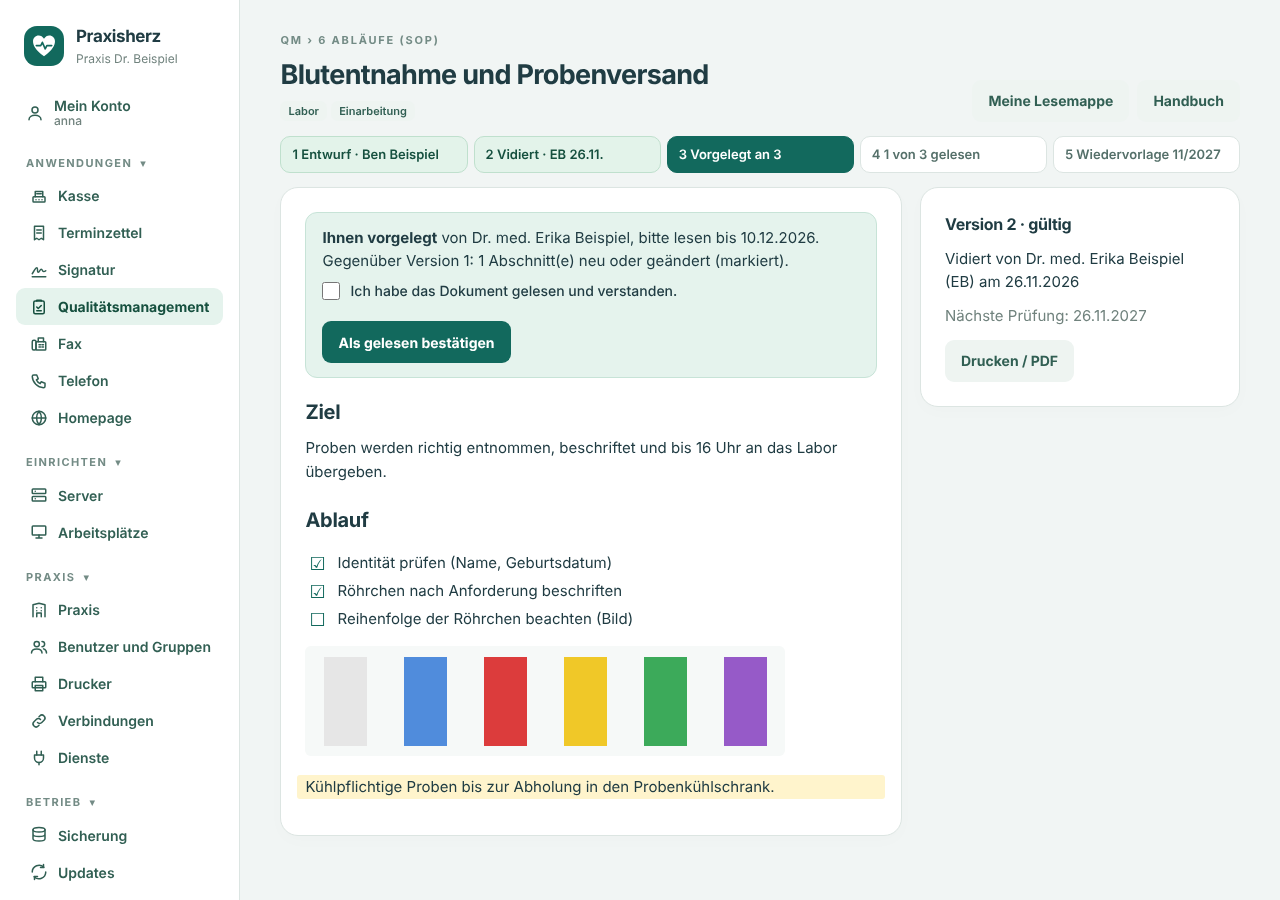
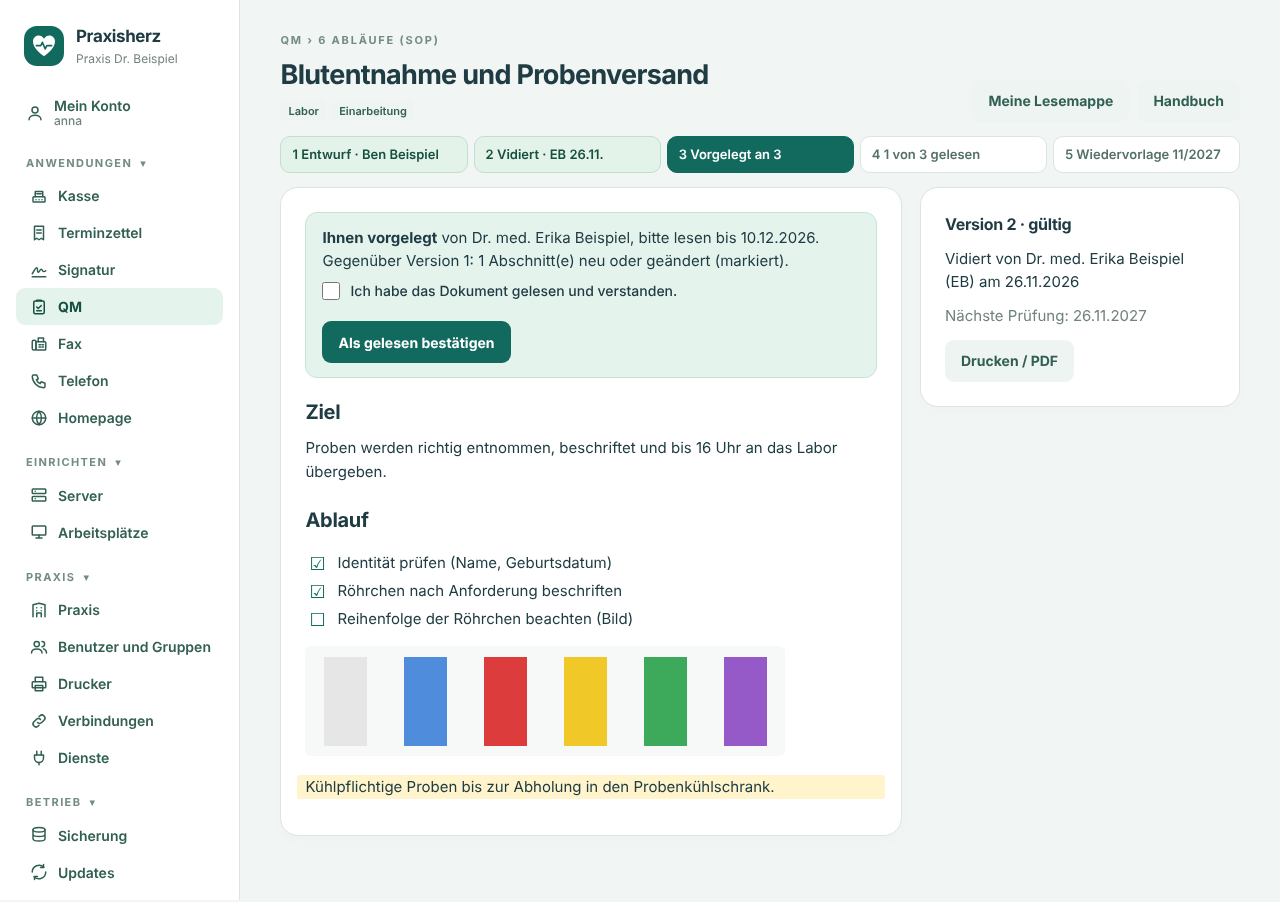
QM 0.1.0-beta.2: sichtbarer Name „QM“ statt „Qualitätsmanagement“
Seitenleiste, Modulverwaltung, Seitentitel und Kopfzeile; Webpfad und Rechte unverändert.
Bildschirmfotos neu. Mit Tests geprüft, nicht auf der VM.

diff --git a/modules/qm/src/Ansicht.php b/modules/qm/src/Ansicht.php
@@ -88,7 +88,7 @@ final class Ansicht {
         $faellig = (self::$r['vidieren'] || self::$r['schreiben']) ? Dokumente::faellig() : [];
         $entw = self::$r['schreiben'] ? Dokumente::entwuerfe() : [];
         $heute = date('Y-m-d');
-        $o = '<div class="qm">' . self::seitenkopf('start', 'Qualitätsmanagement', 'Guten Tag' . ($vorname !== '' ? ', ' . $vorname : '')) . $meldung;
+        $o = '<div class="qm">' . self::seitenkopf('start', 'QM', 'Guten Tag' . ($vorname !== '' ? ', ' . $vorname : '')) . $meldung;
         $o .= '<div class="qm-zahlen"><a class="card qm-zahl" href="#mappe"><span class="muted">Für mich zu lesen</span><strong>' . count($mappe) . '</strong></a>';
         if (self::$r['vidieren']) $o .= '<a class="card qm-zahl" href="#vidieren"><span class="muted">Von mir zu vidieren</span><strong>' . count($vid) . '</strong></a>';
         if ($faellig || self::$r['vidieren']) $o .= '<a class="card qm-zahl" href="' . qm_h(self::u('/handbuch', ['zustand' => 'faellig'])) . '"><span class="muted">Prüfung fällig</span><strong' . ($faellig ? ' class="qm-rot"' : '') . '>' . count($faellig) . '</strong></a>';
@@ -141,7 +141,7 @@ final class Ansicht {
         $filter = ['ordner' => $ordnerId ?: '', 'tag' => (string)($f['tag'] ?? ''), 'zustand' => (string)($f['zustand'] ?? ''), 'q' => (string)($f['q'] ?? ''), 'text' => !empty($f['text']) ? '1' : ''];
         $titel = 'Handbuch';
         foreach ($baum as $b) if ($b['id'] === $ordnerId) $titel = $b['name'];
-        $o = '<div class="qm">' . self::seitenkopf('handbuch', 'Qualitätsmanagement', $titel) . $meldung . '<div class="qm-drei">';
+        $o = '<div class="qm">' . self::seitenkopf('handbuch', 'QM', $titel) . $meldung . '<div class="qm-drei">';
 
         // Ordner und Tags
         $o .= '<aside class="card qm-baum"><h2>Ordner</h2><nav aria-label="Ordner"><a class="qm-ordner' . ($ordnerId === 0 ? ' aktiv' : '') . '" href="' . qm_h(self::u('/handbuch', array_merge($filter, ['ordner' => '']))) . '">Alle Dokumente</a>';
@@ -467,7 +467,7 @@ final class Ansicht {
 
     public static function neu(int $ordner, string $meldung): string {
         $baum = Dokumente::ordnerBaum();
-        $o = '<div class="qm">' . self::seitenkopf('neu', 'Qualitätsmanagement', 'Neues Dokument') . $meldung . '<form method="post" class="card qm-neu">' . self::csrfFeld() . '<input type="hidden" name="aktion" value="anlegen">'
+        $o = '<div class="qm">' . self::seitenkopf('neu', 'QM', 'Neues Dokument') . $meldung . '<form method="post" class="card qm-neu">' . self::csrfFeld() . '<input type="hidden" name="aktion" value="anlegen">'
             . '<div class="qm-felder"><label>Titel<input name="titel" maxlength="150" placeholder="z. B. Blutentnahme und Probenversand" data-geruest-titel></label><label>Ordner' . self::ordnerWahl($baum, 'ordner', $ordner ?: null, 'ohne Ordner') . '</label>'
             . '<label>Tags <small>mit Komma getrennt</small><input name="tags" maxlength="400" placeholder="z. B. Labor, Einarbeitung"></label><label>Prüfen alle<select name="pruef_monate"><option value="12">12 Monate</option><option value="24">24 Monate</option><option value="36">36 Monate</option><option value="6">6 Monate</option><option value="0">keine Wiedervorlage</option></select></label></div>'
             . '<fieldset><legend>Beginnen mit</legend><label class="check"><input type="radio" name="geruest" value="" checked> Leeres Dokument</label>';
@@ -478,7 +478,7 @@ final class Ansicht {
 
     public static function import(string $meldung): string {
         $baum = Dokumente::ordnerBaum();
-        $o = '<div class="qm">' . self::seitenkopf('import', 'Qualitätsmanagement', 'Musterdokumente übernehmen') . $meldung
+        $o = '<div class="qm">' . self::seitenkopf('import', 'QM', 'Musterdokumente übernehmen') . $meldung
             . '<div class="qm-zwei"><section class="card"><h2>Word-Dateien übernehmen (z. B. QEP)</h2>'
             . '<p>Die Musterdokumente aus QEP („Qualität und Entwicklung in Praxen“ der KBV) und andere Word-Dateien (.docx) werden als <strong>Entwürfe</strong> angelegt: anpassen, dann vidieren. '
             . 'Überschriften, Listen, Tabellen, Fettdruck, Links und Bilder werden übernommen; Kopf- und Fußzeilen nicht.</p>'

diff --git a/scripts/modul-vorschau/router.php b/scripts/modul-vorschau/router.php
@@ -10,7 +10,7 @@ if (str_starts_with($path, '/assets/')) {
 }
 if (!preg_match('#^/(terminzettel|signatur|qm|fax|telefon|homepage)(/|$)#', $path, $m)) { http_response_code(404); echo 'nur /terminzettel, /signatur, /qm, /fax, /telefon und /homepage'; return true; }
 $modul = $m[1];
-$menu = rawurlencode(json_encode(['apps' => ['/kasse/' => 'Kasse', '/terminzettel/' => 'Terminzettel', '/signatur/' => 'Signatur', '/qm/' => 'Qualitätsmanagement', '/fax/' => 'Fax', '/telefon/' => 'Telefon', '/homepage/' => 'Homepage'],
+$menu = rawurlencode(json_encode(['apps' => ['/kasse/' => 'Kasse', '/terminzettel/' => 'Terminzettel', '/signatur/' => 'Signatur', '/qm/' => 'QM', '/fax/' => 'Fax', '/telefon/' => 'Telefon', '/homepage/' => 'Homepage'],
     'ids' => ['/kasse/' => 'kasse', '/terminzettel/' => 'terminzettel', '/signatur/' => 'signatur', '/qm/' => 'qm', '/fax/' => 'fax', '/telefon/' => 'telefon', '/homepage/' => 'homepage'], 'admin' => true, 'login' => 'anna']));
 // Erfundene Personen für „Vorlegen“ (QM); Anmeldung als „anna“ bzw. mit ?als=carla als MFA ohne Schreibrechte.
 $_SERVER['KIENZLE_PERSONEN'] = rawurlencode(json_encode([['l' => 'anna', 'n' => 'Dr. med. Erika Beispiel', 'g' => ['Arzt'], 'a' => true, 'r' => []],

diff --git a/modules/qm/tests/seiten.php b/modules/qm/tests/seiten.php
@@ -36,6 +36,7 @@ $alle = 'lesen,schreiben,vidieren,vorlegen';
 $o = aufruf($dir, '/qm/', 'anna', 'lesen');
 check(str_contains($o, '#CODE=200') && str_contains($o, 'Guten Tag, Anna') && str_contains($o, 'Nichts zu lesen') && !str_contains($o, 'Neues Dokument') && str_contains($o, '<aside class="side">'), 'Startseite MFA im Rahmen');
 check(str_contains(aufruf($dir, '/qm/', 'erika', '', 'admin'), 'Guten Tag, Erika'), 'Anrede ohne Titel');
+check(str_contains($o, '<p class="eyebrow">QM</p>') && !str_contains($o, '>Qualitätsmanagement<'), 'sichtbarer Name „QM“');
 check(str_contains(aufruf($dir, '/qm/', 'anna', ''), '#CODE=403'), 'ohne Recht kein Zugang');
 check(str_contains(aufruf($dir, '/qm/neu', 'anna', 'lesen'), '#CODE=403') && str_contains(aufruf($dir, '/qm/import', 'anna', 'lesen'), '#CODE=403'), 'Neu und Import nur mit „schreiben“');
 $o = aufruf($dir, '/qm/neu', 'ben', 'lesen,schreiben');

diff --git a/modules/qm/public/index.php b/modules/qm/public/index.php
@@ -211,7 +211,7 @@ try {
         '/import' => Ansicht::import($meldung),
         'dokument' => Ansicht::dokument($dok, $_GET, $meldung, $r['vorlegen'] ? $k->personen() : []),
     };
-    echo $k->rahmen('Qualitätsmanagement', $inhalt, ['roh' => true, 'kopf' => Ansicht::kopf($base, $k->csrf())]);
+    echo $k->rahmen('QM', $inhalt, ['roh' => true, 'kopf' => Ansicht::kopf($base, $k->csrf())]);
 } catch (Throwable $e) {
     error_log('qm: ' . get_class($e) . ': ' . $e->getMessage());
     http_response_code(500);

diff --git a/AGENTS.md b/AGENTS.md
@@ -38,7 +38,7 @@ Oberfläche, Hilfetexte, Dokumentation und Commit-Nachrichten auf Deutsch.
 
 ## Hinweise für neue Sitzungen (Stand 28.11.2026)
 
-**Stand:** Basis 0.22.0-beta.53, Kasse (`kasse`) 2.3.4-beta.67, Terminzettel 1.3.0-beta.25, Signatur 0.1.0-beta.51, Telefon 0.1.0-beta.31, Fax 0.1.0-beta.16, QM (`qm`) 0.1.0-beta.1, Homepage (`homepage`) 0.1.0-beta.1, Beispiel 0.2.1-beta.1; Zweig `beta` ist aktuell, `main` steht auf einem älteren Endstand
+**Stand:** Basis 0.22.0-beta.53, Kasse (`kasse`) 2.3.4-beta.67, Terminzettel 1.3.0-beta.25, Signatur 0.1.0-beta.51, Telefon 0.1.0-beta.31, Fax 0.1.0-beta.16, QM (`qm`) 0.1.0-beta.2, Homepage (`homepage`) 0.1.0-beta.1, Beispiel 0.2.1-beta.1; Zweig `beta` ist aktuell, `main` steht auf einem älteren Endstand
 (Basis 0.19.1). Der Nutzer testet auf einer echten Ubuntu-26.04-VM (Aktualisierung dort: `cd ~/praxisherz && git pull && sudo bash installer/install.sh`,
 oder in der Weboberfläche unter „Updates“). Die Adresse der VM gehört nicht ins Repository.
 
@@ -92,7 +92,7 @@ oder in der Weboberfläche unter „Updates“). Die Adresse der VM gehört nich
   - **Fax:** `src/Fax.php` (aus `kienzlefax.php`), Drucker vFax1–vFax5, holt Berichte und empfangene Faxe sofort in den eigenen Datenordner. Rechte `senden`, `eingang`, `telefonbuch`. „Fax senden“ (beta.7, Entwurf A): eine Liste aller Quellen (`Fax::dokumente`, Schlüssel `quelle/datei`), Reihenfolge des Anhakens im Feld `reihenfolge`, mehrere Dokumente per Ghostscript zu einem Fax (`sendenAuswahl`, `einzeln` = je Dokument ein Fax), Vorschau `/fax/vorschau` (`Fax::vorschau`, Cache `<daten>/vorschau`, 1 Tag; auch beim Überfahren im Eingang), Favoriten (Spalte `favorit`), `zuletzt.json`. Texterkennung (beta.10): Dienst `kienzle-fax-ocr` (`haken.php ocr` → `Fax::ocrLauf`, gs 300 dpi + `tesseract … deu`), Text `eingang/<name>.txt`, Suche `?suche=` (`Fax::eingangSuchen`), Einstellung `ocr`.
   - **Offen (Stufen 2–5):** Kienzlefon (Sprachmenü, Zeiten, Ansagen/TTS, Whisper, Vorgänge, Rufgruppen-API 8767, AMI für Middleware, KI-Übergabe), Nachrichten-Ausgang der Basis für Module (SMS/Mail ohne Zugangsdaten im Modul) und SMS an Anrufer, Mail bei Faxeingang, OCR, Umzug alter Installationen.
   - Test `modules/telefon/tests/test_fax_schleife.py` startet echtes Asterisk (CI installiert es) und schickt ein Fax über `Local/s@fax-in` an sich selbst; Leitungen in Tests nur `*.example.invalid` (keine echten Anbieter anfragen).
-- **Qualitätsmanagement (`modules/qm`, seit 28.11.2026, Entscheidung des Nutzers: Vorschläge B + A + C kombiniert, Import für QEP der KBV):** `/qm/` = „Meine Lesemappe“ (vorgelegt, zu vidieren, fällig, Entwürfe), `/qm/handbuch` (Ordnerbaum, Tags, Sofortsuche nach Schnipseln per `data-live`, Volltext mit `text=1`, Vorschau `?d=`, Sammel-Vorlage der gefilterten Dokumente), `/qm/dokument/<id>` (Schritte, gültig/Entwurf-Reiter, `?bearbeiten=1` Editor mit `contenteditable` + `execCommand`, Tabellen per DOM eingefügt – Chrome zerlegt sie bei `insertHTML`), `/qm/druck/<id>`, `/qm/neu` (Gerüste aus `src/Gerueste.php`, eigene Texte), `/qm/import` (roh per `fetch` an `POST /qm/import`, Kopfzeilen `X-Qm-Pfad|Ordner|Tags|Struktur`; .docx/.zip bis 7,5 MB, Ordnerwahl per `webkitdirectory`). Logik `src/Dokumente.php` (ein gültige + höchstens ein Entwurf je Dokument; Vidieren ersetzt, offene Lesepflichten gehen über, „erneut vorlegen“), `src/Html.php` (Reiniger mit fester Liste, Änderungsmarkierung je Abschnitt), `src/Docx.php` (Word → HTML, Listen auch über Formatvorlagen, Titel aus QEP-Kopf „PRAXISINTERNES QM-Dokument: …“), `src/Import.php`. Rechte `lesen`, `schreiben`, `vidieren`, `vorlegen`. **Basis beta.46:** `[web] personen = true` (core_api 2) → Kopf `X-Kienzle-Personen` (aktive Konten mit Zugang, Gruppen, Rechte; 30 s Cache in `settings`), `$k->personen()`; nginx `/_auth/` mit `fastcgi_buffer_size 32k` **und** `fastcgi_buffers 8 32k` (beta.47; nur `buffer_size` allein ließ `nginx -t` scheitern, Test `EchtesNginx` in `tests/core/test_nginx.py`). QEP-Muster liegen nicht im Repo (Rechte der KBV), echte QEP-Dateien ungetestet. Vorschau: `scripts/modul-vorschau` (`/qm/?als=carla` = MFA). Tests `modules/qm/tests/qm.php`, `seiten.php` (rohe Körper in der CLI über `php://stdin`, `qm_eingabe`).
+- **QM – Qualitätsmanagement (`modules/qm`, sichtbarer Name „QM“ seit beta.2, seit 28.11.2026, Entscheidung des Nutzers: Vorschläge B + A + C kombiniert, Import für QEP der KBV):** `/qm/` = „Meine Lesemappe“ (vorgelegt, zu vidieren, fällig, Entwürfe), `/qm/handbuch` (Ordnerbaum, Tags, Sofortsuche nach Schnipseln per `data-live`, Volltext mit `text=1`, Vorschau `?d=`, Sammel-Vorlage der gefilterten Dokumente), `/qm/dokument/<id>` (Schritte, gültig/Entwurf-Reiter, `?bearbeiten=1` Editor mit `contenteditable` + `execCommand`, Tabellen per DOM eingefügt – Chrome zerlegt sie bei `insertHTML`), `/qm/druck/<id>`, `/qm/neu` (Gerüste aus `src/Gerueste.php`, eigene Texte), `/qm/import` (roh per `fetch` an `POST /qm/import`, Kopfzeilen `X-Qm-Pfad|Ordner|Tags|Struktur`; .docx/.zip bis 7,5 MB, Ordnerwahl per `webkitdirectory`). Logik `src/Dokumente.php` (ein gültige + höchstens ein Entwurf je Dokument; Vidieren ersetzt, offene Lesepflichten gehen über, „erneut vorlegen“), `src/Html.php` (Reiniger mit fester Liste, Änderungsmarkierung je Abschnitt), `src/Docx.php` (Word → HTML, Listen auch über Formatvorlagen, Titel aus QEP-Kopf „PRAXISINTERNES QM-Dokument: …“), `src/Import.php`. Rechte `lesen`, `schreiben`, `vidieren`, `vorlegen`. **Basis beta.46:** `[web] personen = true` (core_api 2) → Kopf `X-Kienzle-Personen` (aktive Konten mit Zugang, Gruppen, Rechte; 30 s Cache in `settings`), `$k->personen()`; nginx `/_auth/` mit `fastcgi_buffer_size 32k` **und** `fastcgi_buffers 8 32k` (beta.47; nur `buffer_size` allein ließ `nginx -t` scheitern, Test `EchtesNginx` in `tests/core/test_nginx.py`). QEP-Muster liegen nicht im Repo (Rechte der KBV), echte QEP-Dateien ungetestet. Vorschau: `scripts/modul-vorschau` (`/qm/?als=carla` = MFA). Tests `modules/qm/tests/qm.php`, `seiten.php` (rohe Körper in der CLI über `php://stdin`, `qm_eingabe`).
 - **Homepage (`modules/homepage`, seit 28.11.2026, Entscheidung des Nutzers: Konzept B = Plugin in WordPress, Praxisserver schickt; Oberfläche Entwurf B2 mit Vorschau aus C; Vertretungspraxen als eigene Liste mit Knopf oben wie die IGeL-Leistungen; Ort je Mitteilung wählbar, mehrere Praxen je Vertretung):** `/homepage/` Mitteilungen (Ausklappzeilen mit Schalter, Formular je Art per `data-art`, Vorschau rechts über `POST /homepage/vorschau` mit `X-Kienzle-Csrf`, Formular noch ungespeichert), `/homepage/praxen`, `/homepage/einrichtung` (Admin; Adresse + Schlüssel, verschlüsselt mit Zweck `wordpress`), `/homepage/plugin.zip`. Logik `src/Mitteilungen.php` (Arten vertretung/impfstoff/oeffnungszeiten/frei, Orte leiste/kasten/fenster/kurzcode, `zustand` aus/geplant/aktiv/abgelaufen, `darstellung` = fertige Texte titel/kurz/text/punkte), `src/Praxen.php`, `src/Homepage.php` (Übertragung per curl an `<url>/?rest_route=/praxisherz/v1/hinweise`, HMAC-SHA256 über „Zeit\nKörper“ mit dem 64-Hex-Schlüssel als Text, Kopfzeilen `X-Praxisherz-Zeit`/`-Signatur`, keine Weiterleitungen, nur https außer 127.0.0.1). Plugin `wordpress/praxisherz-hinweise` (eigene Version im Kopf, PHP 7.4/WP 5.3; Zeitraumprüfung auch im Browser wegen Seitencache). Farbe/Symbol je Mitteilung (beta.2, Plugin 0.2.0): `Mitteilungen::FARBEN|SYMBOLE|FARBE_ZUR_ART|SYMBOL_ZUR_ART` müssen mit den Konstanten des Plugins übereinstimmen (Test prüft das). Kasten: `the_content` nur auf statischer Startseite (`is_page`); sonst gibt `wp_footer` ihn mit `ph-nachreichen-kasten` aus und `hinweise.js` setzt ihn (Option `praxisherz_hinweise_kasten_ziel`/`_lage`, sonst `main` bzw. nach `header`) – die Test-Homepage des Nutzers baut die Startseite im Theme selbst. Rechte `mitteilungen`, `praxen`. Tests `tests/homepage.php` (inkl. nachgebautem WordPress `tests/wp-nachbau.php` und echter Übertragung an `php -S tests/wp-server.php`), `tests/seiten.php` (Weiterleitungsziel über `$GLOBALS['hp_weiter']`, Testmodul über `$GLOBALS['hp_test_modul']`). Vorschau: `scripts/modul-vorschau` (`/homepage/`).
 - **Rückmeldung nach Knopfdruck (Basis beta.58):** Aktionen mit Weiterleitung rufen `Web::flash('Text')` (Sitzungsbezogen in `settings`, einmalig, 2 Min); `applyFlash` setzt sie als `<p class="notice">` direkt in `<main>` der nächsten GET-Seite, `core.js` (`meldungNahe`) rückt sie hinter den angeklickten Knopf (auch Signatur `.us > p.ok/.fehler`). Neue Weiterleitung nach POST ⇒ immer `flash()` aufrufen, sonst bleibt die Seite stumm.
 - **Zentraler Arbeitsplatz-Starter (Basis beta.56, 25.11.2026):** Ein Starterprogramm je PC (Go, `core/client/starter`, Tests dort; gebaut von `scripts/starter-bauen` nach `core/client-dist`, nicht in git, `release-bauen` legt es ins Basis-Archiv, CI baut es vorher) und **ein** Starter-Schlüssel für alle Module (`core/php/Starter.php`, verschlüsselt in `settings`, erneuerbar). Module melden Startkontexte mit `[[starters]] schema="kienzle-<name>" label=…` in `module.toml` an (Manifest-Prüfung in `manifest.py`, Doku `docs/MODULE-TOML.md`). nginx erzeugt je Modul `POST /starter/<modul-id>` mit `auth_request /_starter-pruefen` (Basis prüft `Authorization: Bearer`, Bremse `Throttle` 10 Fehler/10 Min); das Modul sieht `KIENZLE_OEFFENTLICH=starter` und `KIENZLE_STARTER_GEPRUEFT=1` und antwortet `{url: https://<server>/#launch=<64hex>&m=<modul-id>}`; `core.js` (v6) leitet nach der Anmeldung über `data-starter-map` an `<modulpfad>/#launch=…` weiter. Seite **Einrichten → Arbeitsplätze** (`/hilfe/arbeitsplatz`; `/verwaltung/arbeitsplaetze` leitet dorthin um): Paket je Windows/macOS/Linux (T2med-Adressen stehen unter Praxis → Verbindungen → T2med) (`core/client/install-*`, `schemas.txt`, `client.json` mit `kontexte`), Schlüssel erneuern. Den alten Weg der Kasse (`/api.php` ohne Anmeldung, eigener `launcher_key`, `client-download.php`, Weiterleitung ohne `&m=` per `data-starter`) gibt es nicht mehr (entfernt bis Basis beta.50/Kasse beta.67); alle Module antworten mit `&m=<modul>`. Tests: `tests/php/starter.php`, `tests/core/test_nginx.py`, `test_manifest.py`. Nachträge: Der Go-Starter wird für Windows mit `-H=windowsgui` gebaut (kein schwarzes Konsolenfenster, Fehler in `starter.log`); `Starter::files` liest `/etc/kienzle/ca/server.crt` und braucht dafür den Eintrag in `open_basedir` der Basis-PHP-Einstellung (`php-fpm-core.conf`, wirkt erst nach `install.sh`).

diff --git a/modules/qm/RELEASE.md b/modules/qm/RELEASE.md
@@ -1,4 +1,8 @@
-# Release-Notizen Qualitätsmanagement
+# Release-Notizen QM
+
+## 0.1.0-beta.2
+
+- Sichtbarer Name jetzt „QM“ (Wunsch des Nutzers): Seitenleiste, Modulverwaltung, Seitentitel und Kopfzeile der Seiten. Webpfad `/qm` und Rechte bleiben gleich. Mit Tests geprüft, nicht auf der VM.
 
 ## 0.1.0-beta.1
 
